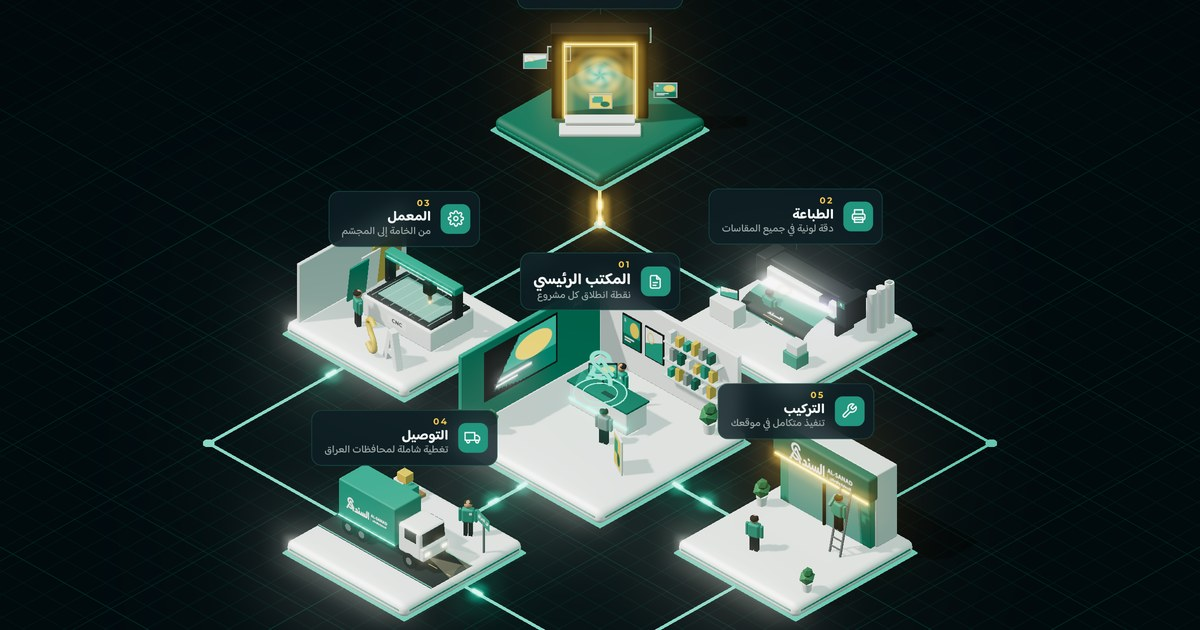
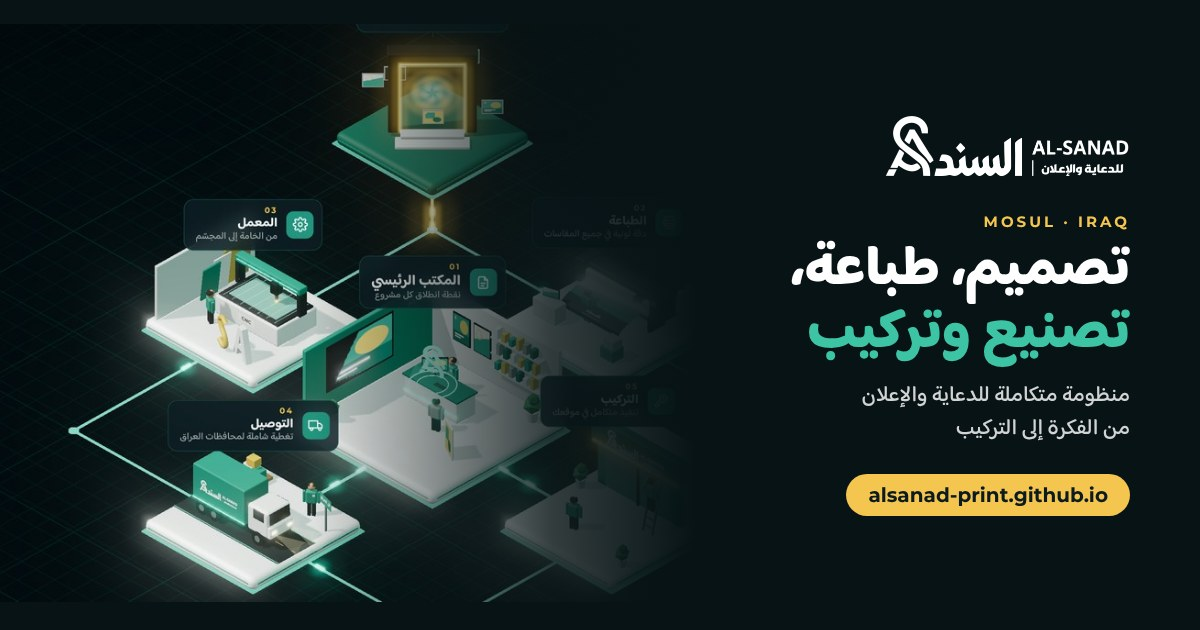
فحص ما قبل الإطلاق: إصلاحات الموبايل والمعرض، Escape، صفحة 404، صورة مشاركة جديدة، وصف كردي للأعمال
- شريط الأزرار العلوي كان يطلع برة الشاشة على موبايلات 360–390
- بطاقة المشروع بالمعرض كانت تتداخل مع النص اللي خلفها على الموبايل
- زر «عرض مبسّط» كان يغطي عنوان المحطة لما تنفتح لوحتها
- زر العرض التفاعلي بالعرض المبسط كان يطلع برة الشاشة بالإنكليزي والكردي
- مفتاح Escape يسكر النوافذ واللوحات
- إخفاء فلتر تصميم/تصميم وتنفيذ بصفحة الأعمال
- صفحة 404 بهوية السند
- صورة og جديدة فيها الشعار والعنوان
- وصف كردي لكل الأعمال وعناوين كردية لأعمال الوليمة

Claude-Session: https://claude.ai/code/session_01Ls7BzncAZFjfk6dDXAouDR

diff --git a/404.html b/404.html
@@ -1,0 +1,38 @@
+<!doctype html>
+<html lang="ar" dir="rtl">
+<head>
+<meta charset="utf-8">
+<meta name="viewport" content="width=device-width,initial-scale=1">
+<meta name="robots" content="noindex">
+<meta name="theme-color" content="#0B1B1F">
+<title>الصفحة غير موجودة | السند للدعاية والإعلان</title>
+<link rel="icon" href="/assets/favicon.png">
+<link rel="stylesheet" href="/css/fonts.css">
+<style>
+*{margin:0;box-sizing:border-box}
+html,body{height:100%}
+body{background:radial-gradient(60% 45% at 50% 45%,rgba(34,150,127,.28),transparent 70%),#0B1B1F;color:#fff;font-family:'Baloo Bhaijaan 2','Noto Kufi Arabic',sans-serif;display:flex;align-items:center;justify-content:center;text-align:center;padding:24px}
+.box{max-width:440px;display:flex;flex-direction:column;align-items:center;gap:14px}
+.code{font-family:Montserrat,sans-serif;font-weight:800;font-size:72px;line-height:1;color:#F5C64F;letter-spacing:.02em}
+h1{font-size:26px;font-weight:800}
+p{opacity:.75;line-height:1.7}
+.en{font-family:Montserrat,sans-serif;font-size:13px;opacity:.55}
+.btns{display:flex;gap:10px;flex-wrap:wrap;justify-content:center;margin-top:8px}
+a{display:inline-flex;align-items:center;height:44px;padding:0 20px;border-radius:12px;font-weight:700;text-decoration:none;color:#fff;border:1px solid rgba(255,255,255,.18)}
+a.gold{background:#F5C64F;color:#1B2A22;border-color:transparent}
+</style>
+</head>
+<body>
+<div class="box">
+  <img src="/assets/logo-secondary-white.png" alt="السند للدعاية والإعلان" style="height:34px;margin-bottom:12px">
+  <div class="code">404</div>
+  <h1>الصفحة غير موجودة</h1>
+  <p>ربما تغيّر الرابط أو حُذفت الصفحة. يمكنكم العودة إلى الصفحة الرئيسية أو تصفّح أعمالنا.</p>
+  <p class="en" dir="ltr">Page not found · پەڕەکە نەدۆزرایەوە</p>
+  <div class="btns">
+    <a class="gold" href="/">الصفحة الرئيسية</a>
+    <a href="/projects/">أعمالنا</a>
+  </div>
+</div>
+</body>
+</html>

diff --git a/css/style.css b/css/style.css
@@ -394,3 +394,28 @@ a.btn-gold{color:#1B2A22}
 .g-cap{z-index:1}
 @media (max-width:760px){.g-tabs{justify-content:flex-start}}
 body.mode-gallery .lite-note{display:none}
+
+/* narrow phones: keep the whole top bar on screen */
+@media (max-width:430px){
+  .topbar{padding-inline:10px;gap:6px}
+  .brand img{height:22px}
+  .actions{gap:4px}
+  .actions .btn{height:36px;padding:0 9px}
+  .actions .btn-icon,#btnGallery,#btnContact,#btnJourney{width:34px}
+  #btnOrder{font-size:12.5px;gap:5px}
+  #btnOrder svg{width:16px;height:16px}
+}
+@media (max-width:380px){
+  .brand img{height:19px}
+  .actions{gap:3px}
+  .actions .btn{height:34px;padding:0 7px}
+  .actions .btn-icon,#btnGallery,#btnContact,#btnJourney{width:31px}
+  .actions .btn svg{width:16px;height:16px}
+  #btnOrder{font-size:12px}
+}
+/* gallery: the open project sheet sits above the ring caption */
+.g-card{z-index:5}
+#galleryUI:has(.g-card.open) .g-cap,#galleryUI:has(.g-card.open) .g-arr{opacity:0!important;pointer-events:none!important}
+/* keep the "simple view" pill out of the way of an open station panel */
+body.panel-open .lite-btn,body.in-journey .lite-btn{opacity:0;pointer-events:none}
+.lite-btn{transition:opacity .3s}

diff --git a/projects/index.html b/projects/index.html
@@ -354,6 +354,7 @@ function renderStatic() {
   $('#stats').style.gridTemplateColumns = `repeat(${$('#stats').children.length},1fr)`;
   const usedCats = D.categories.filter(c => W.some(w => catsOf(w).includes(c.id)));
   $('#cats').innerHTML = `<button class="chip ${S.cat === 'all' ? 'on' : ''}" data-cat="all">${t('all')}</button>` + usedCats.map(c => `<button class="chip ${S.cat === c.id ? 'on' : ''}" data-cat="${esc(c.id)}">${esc(pick(c, lang))}</button>`).join('');
+  $('#kinds').hidden = !W.some(w => kindOf(w) === 'design');
   $('#kinds').innerHTML = ['all', 'build', 'design'].map(k => `<button data-kind="${k}" class="${S.kind === k ? 'on' : ''}">${t(k === 'all' ? 'kindAll' : k)}</button>`).join('');
   $('#views').innerHTML = [['clients', 'vClients'], ['grid', 'vGrid']].map(([v, k]) => `<button data-view="${v}" class="${S.view === v ? 'on' : ''}">${t(k)}</button>`).join('');
   let btns = `<a class="btn btn-gold" href="../order/">${t('ctaB')}</a>`;

diff --git a/js/classic.js b/js/classic.js
@@ -27,7 +27,7 @@ export function classicHTML(lang, data, hasGL = true) {
     </nav>
     <div class="cl-tools">
       <div class="cl-langs">${LANGS.map(l => `<button data-cl-lang="${l.id}" class="${l.id === lang ? 'on' : ''}">${l.short}</button>`).join('')}</div>
-      ${hasGL ? `<button class="btn btn-gold" data-act="full-view">${esc(u.fullView)}</button>` : ''}
+      ${hasGL ? `<button class="btn btn-gold" data-act="full-view" title="${esc(u.fullView)}"><span class="fv-l">${esc(u.fullView)}</span><span class="fv-s">3D</span></button>` : ''}
     </div>
   </header>
 

diff --git a/css/classic.css b/css/classic.css
@@ -66,3 +66,11 @@
 .cl-lb-t p{color:#C3D3D1;margin-top:8px;line-height:1.7}
 .cl-x{position:absolute;top:10px;inset-inline-end:10px;z-index:3;width:36px;height:36px;border-radius:10px;background:rgba(8,20,22,.8);font-size:22px}
 @media (max-width:760px){ .cl-nav{display:none} .cl-logo{height:28px} }
+
+.fv-s{display:none}
+@media (max-width:520px){
+  .cl-top{gap:10px;padding-inline:14px}
+  .cl-tools{gap:8px}
+  .cl-tools .fv-l{display:none}.cl-tools .fv-s{display:inline;font-family:Montserrat,sans-serif;font-weight:800}
+  .cl-tools .btn-gold{padding-inline:14px}
+}

diff --git a/js/app.js b/js/app.js
@@ -989,6 +989,12 @@ $('#jEnd').addEventListener('click', e => {
   if (b.dataset.act === 'close') { endJourney(); flyHome(); }
 });
 $('#btnJourney').addEventListener('click', () => openModal('track'));
+addEventListener('keydown', e => {
+  if (e.key !== 'Escape' || mode === 'gallery') return;
+  if (openModalId) { closeModal(); return; }
+  if (journey.active) { endJourney(); flyHome(); return; }
+  if (selected) closePanel();
+});
 
 /* =====================================================================
    modals: track + contact
